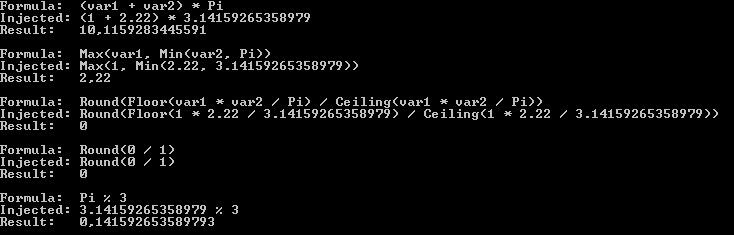
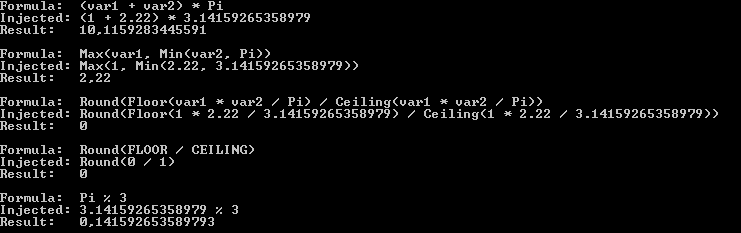
Can now assign a name when using AsConstant

diff --git a/Demo/Program.cs b/Demo/Program.cs
@@ -36,7 +36,8 @@ namespace Demo
 
             Console.WriteLine();
 
-            result = Operand.Round(Operand.Floor(var1 * var2 / var3).AsConstant() / Operand.Ceiling(var1 * var2 / var3).AsConstant());
+            result = Operand.Round(Operand.Floor(var1 * var2 / var3).AsConstant(@"FLOOR") /
+                Operand.Ceiling(var1 * var2 / var3).AsConstant(@"CEILING"));
 
             Console.WriteLine(@"Formula:  " + result.GetFormula());
             Console.WriteLine(@"Injected: " + result.GetFormula(true));

diff --git a/Engine/Operand.cs b/Engine/Operand.cs
@@ -215,6 +215,11 @@ namespace Engine
             return new Operand(Name, Value);
         }
 
+        public Operand AsConstant(string name)
+        {
+            return new Operand(name, Value);
+        }
+
         public override string ToString()
         {
             return $"[[{Id}]]";

diff --git a/README.md b/README.md
@@ -33,7 +33,8 @@ Console.WriteLine(@"Result:   " + result.Value);
 
 Console.WriteLine();
 
-result = Operand.Round(Operand.Floor(var1 * var2 / var3).AsConstant() / Operand.Ceiling(var1 * var2 / var3).AsConstant());
+result = Operand.Round(Operand.Floor(var1 * var2 / var3).AsConstant(@"FLOOR") /
+    Operand.Ceiling(var1 * var2 / var3).AsConstant(@"CEILING"));
 
 Console.WriteLine(@"Formula:  " + result.GetFormula());
 Console.WriteLine(@"Injected: " + result.GetFormula(true));
@@ -48,6 +49,8 @@ Console.WriteLine(@"Injected: " + result.GetFormula(true));
 Console.WriteLine(@"Result:   " + result.Value);
 
 Console.WriteLine();
+
+Console.ReadKey(false);
 ```
 
 ![result](demo_result.png)
